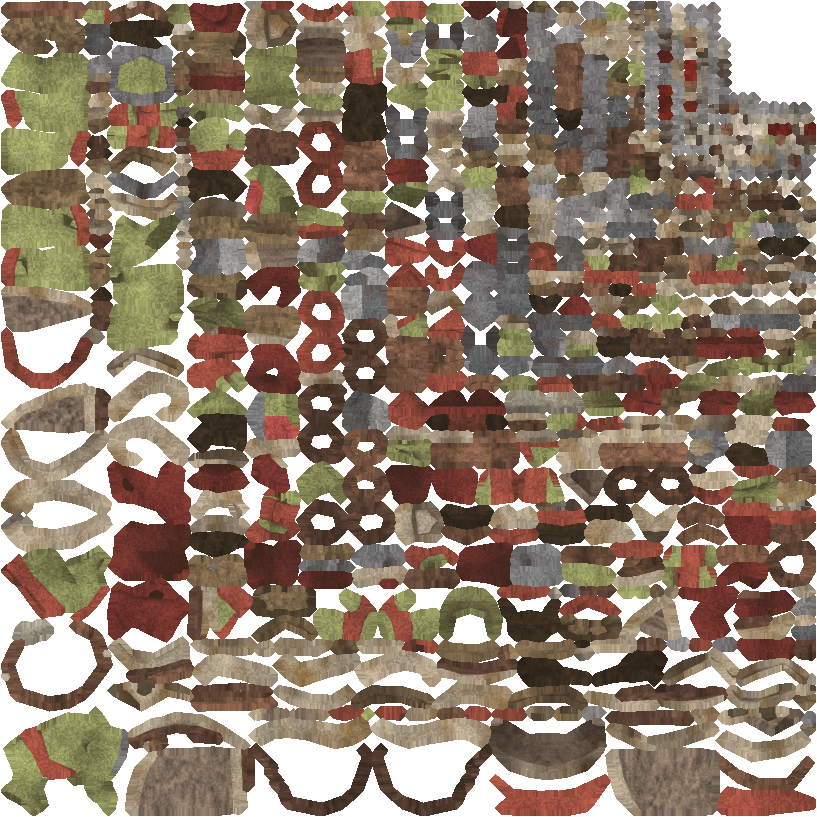
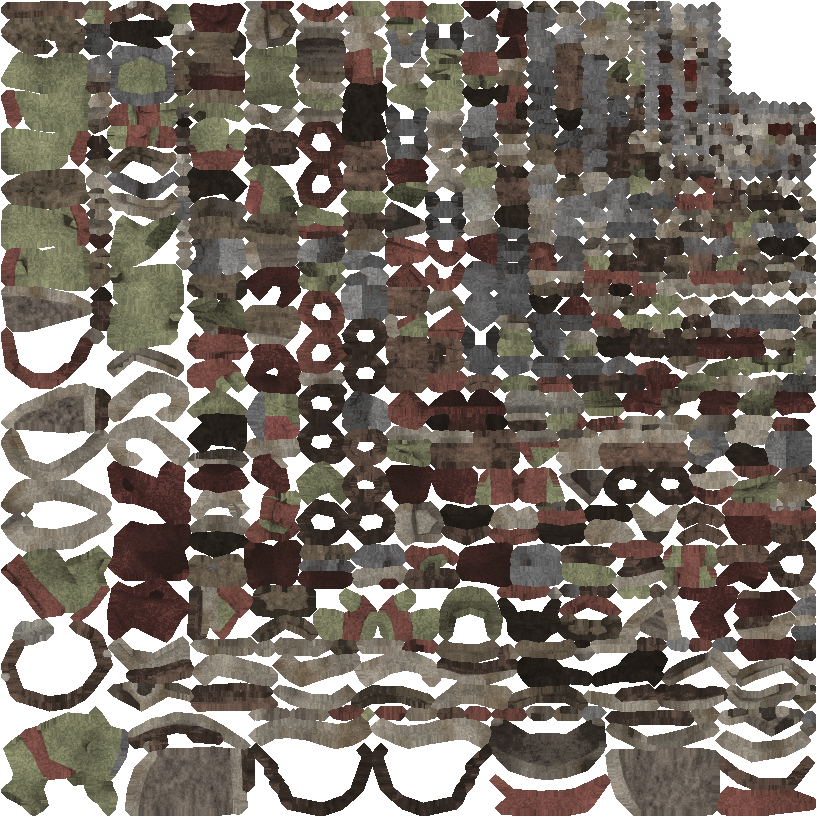
Events: lines plainer (about half of the clipped 'Verdict. Quip.' lines made one sentence; the dice faces no longer one template; no stock idioms), the shell game's cups are upside-down mugs (the turned-over broth bowls read as buns; prompt 'Pick this cup'), the great bell recoloured to dull bronze 

diff --git a/Assets/Game/Levels/Scripts/Editor/EventRoomsSetup.cs b/Assets/Game/Levels/Scripts/Editor/EventRoomsSetup.cs
@@ -349,7 +349,7 @@ public static class EventRoomsSetup
             ev.toll = Load<AudioClip>("Assets/Game/Audio/Clips/Events/Bell toll.wav");
         });
 
-    // The wager: a small candlelit 7 x 5 room, a table in the middle with the dealer sitting behind it, three bowls and a
+    // The wager: a small candlelit 7 x 5 room, a table in the middle with the dealer sitting behind it, three cups and a
     // coin on it.
     static GameObject Wager(GameObject sharp) => Room("Card table", "wager",
         "A skeleton runs a shell game. Bet gold, find the coin. He cheats once you win twice; call him out with a blow.",
@@ -369,7 +369,7 @@ public static class EventRoomsSetup
             var cups = new Transform[3];
             for (int i = 0; i < 3; i++)
             {
-                var bowl = Put(root, $"{Shared}/Tavern/Broth bowl.prefab", Vector3.zero, 0f, "Bowl " + (i + 1));
+                var bowl = Put(root, $"{Shared}/Tavern/Mug.prefab", Vector3.zero, 0f, "Bowl " + (i + 1));   // upside-down mugs (a bowl turned over read as a bun)
                 if (bowl == null) continue;
                 bowl.transform.localRotation = Quaternion.Euler(180f, 0f, 0f);
                 var bb = Bounds(bowl);

diff --git a/Assets/Game/Levels/Scripts/Events/SleepingGiantEvent.cs b/Assets/Game/Levels/Scripts/Events/SleepingGiantEvent.cs
@@ -22,11 +22,11 @@ public class SleepingGiantEvent : MonoBehaviour
     [Tooltip("What it leaves when it dies, besides its own drops: gear rolled at this rarity and the biggest spoils.")]
     public ItemRarity dropRarity = ItemRarity.Unique;
     [Header("Lines")]
-    public DungeonMaster.Line enterLine = new() { text = "Shh. It's sleeping. Crouch." };
+    public DungeonMaster.Line enterLine = new() { text = "It's asleep. Crouch." };
     [Tooltip("Said when a step woke it.")] public DungeonMaster.Line wokeLine = new() { text = "Should have crouched." };
-    [Tooltip("Said when a blow woke it.")] public DungeonMaster.Line struckLine = new() { text = "Bold. It's awake now." };
+    [Tooltip("Said when a blow woke it.")] public DungeonMaster.Line struckLine = new() { text = "You hit it. It's awake now." };
     public DungeonMaster.Line quietLine = new() { text = "Not a sound. I'm impressed." };
-    public DungeonMaster.Line killedLine = new() { text = "The bigger they are." };
+    public DungeonMaster.Line killedLine = new() { text = "That was a lot of giant." };
 
     ScriptedEventRoom room;
     Character giant;

diff --git a/Assets/Game/Levels/Scripts/Events/DuelEvent.cs b/Assets/Game/Levels/Scripts/Events/DuelEvent.cs
@@ -30,11 +30,11 @@ public class DuelEvent : MonoBehaviour
     [Range(1, 4)] public int maxTier = 2;
     public ItemRarity rarity = ItemRarity.Unique;
     [Header("Lines")]
-    public DungeonMaster.Line challengeLine = new() { text = "A duel. One on one. Face him." };
+    public DungeonMaster.Line challengeLine = new() { text = "He wants a duel. Face him." };
     public DungeonMaster.Line earlyLine = new() { text = "He hadn't even finished his salute." };
     public DungeonMaster.Line friendsLine = new() { text = "His friends saw that too." };
-    public DungeonMaster.Line fairLine = new() { text = "Fair and square. He'd want you to have this." };
-    public DungeonMaster.Line foulWinLine = new() { text = "You won. That's not how the songs will tell it." };
+    public DungeonMaster.Line fairLine = new() { text = "He lost fair. It's yours." };
+    public DungeonMaster.Line foulWinLine = new() { text = "You won. Not the way he'd have liked." };
 
     enum Phase { Waiting, Saluting, Duel, Broken, Over }
     Phase phase;

diff --git a/Tools/bell_rope.py b/Tools/bell_rope.py
@@ -1,5 +1,5 @@
 """The Great bell's pull rope, in metres, Unity axes (y up), the pivot at its top (y 0) and LENGTH down: a three-strand
-hemp rope (a twisted 10-sided tube whose radius follows three spiral ridges), a woollen sally to grip (red and cream
+hemp rope (a twisted 10-sided tube whose radius follows three spiral ridges), a woollen sally to grip (russet and hemp
 bands round a fatter wrap) part way up from its end, and a whipped tail with a knot at the bottom.
 Materials: Hemp, Wool red, Wool cream.
 blender -b -P bell_rope.py -- out.fbx [length]"""
@@ -17,7 +17,7 @@ def U(x, y, z):   # Unity -> Blender, as Tools/dm_die.py measured
 def mat(name, rgb):
     m = bpy.data.materials.new(name); m.diffuse_color = (*rgb, 1); return m
 
-HEMP, RED, CREAM = mat('Hemp', (.52, .42, .28)), mat('Wool red', (.46, .13, .10)), mat('Wool cream', (.74, .67, .54))
+HEMP, RED, CREAM = mat('Hemp', (.52, .42, .28)), mat('Wool red', (.33, .22, .15)), mat('Wool cream', (.47, .38, .26))
 mats = [HEMP, RED, CREAM]
 
 SIDES, R = 10, .018

diff --git a/Assets/Game/Levels/Scripts/Events/DungeonMasterMeddling.cs b/Assets/Game/Levels/Scripts/Events/DungeonMasterMeddling.cs
@@ -22,16 +22,16 @@ public class DungeonMasterMeddling : MonoBehaviour
     public static DungeonMaster.Line[] tooEasyLines =
     {
         new() { text = "Too easy. Let me fix that." },
-        new() { text = "You're making this look simple. Here." },
-        new() { text = "Hold on. That wasn't fair on them." },
+        new() { text = "You're making this look simple." },
+        new() { text = "That wasn't fair on them." },
     };
     public static DungeonMaster.Line[] afterAddLines =
     {
         new() { text = "Better." },
-        new() { text = "There. Now it's a fight." },
+        new() { text = "Now it's a fight." },
     };
     public static DungeonMaster.Line stealLine = new() { text = "Actually, I'll take that." };
-    public static DungeonMaster.Line coinLine = new() { text = "Here. For the walk." };
+    public static DungeonMaster.Line coinLine = new() { text = "A coin for the walk." };
 
     DungeonGenerator dungeon;
     DungeonRoomFeatures features;

diff --git a/Assets/Game/Levels/Scripts/Events/WagerEvent.cs b/Assets/Game/Levels/Scripts/Events/WagerEvent.cs
@@ -43,8 +43,8 @@ public class WagerEvent : MonoBehaviour
     public DungeonMaster.Line cheatHint = new() { text = "He doesn't like losing." };
     public DungeonMaster.Line cheatReveal = new() { text = "None of them? Funny, that." };
     public DungeonMaster.Line calledLine = new() { text = "You called it. Now deal with his friends." };
-    public DungeonMaster.Line soreLine = new() { text = "Sore loser. He played fair." };
-    public DungeonMaster.Line potLine = new() { text = "His pot. You earned it." };
+    public DungeonMaster.Line soreLine = new() { text = "He played fair, you know." };
+    public DungeonMaster.Line potLine = new() { text = "His pot is yours." };
     public DungeonMaster.Line poorLine = new() { text = "You can't cover the bet." };
     public DungeonMaster.Line doneLine = new() { text = "He's done for tonight." };
 

diff --git a/Assets/Game/Levels/Scripts/Events/DiceEvent.cs b/Assets/Game/Levels/Scripts/Events/DiceEvent.cs
@@ -24,11 +24,11 @@ public class DiceEvent : MonoBehaviour
     public DungeonMaster.Line rollLine = new() { text = "Let's see what the dice say." };
     public DungeonMaster.Line[] faceLines =
     {
-        new() { text = "One. Oh dear." },
-        new() { text = "Two. I have just the thing." },
-        new() { text = "Three. Nothing. How dull." },
-        new() { text = "Four. Have a rest." },
-        new() { text = "Five. Not bad." },
+        new() { text = "A one. Oh dear." },
+        new() { text = "A two gets you a friend of mine." },
+        new() { text = "Three does nothing at all." },
+        new() { text = "Four puts you back on your feet." },
+        new() { text = "Five, not bad." },
         new() { text = "Six! Lucky you." },
     };
 

diff --git a/Assets/Game/Levels/Scripts/Events/BellEvent.cs b/Assets/Game/Levels/Scripts/Events/BellEvent.cs
@@ -22,11 +22,11 @@ public class BellEvent : MonoBehaviour
     {
         new() { text = "You rang?" },
         new() { text = "Again? Fine." },
-        new() { text = "Greedy. I like it." },
+        new() { text = "You want more, then." },
         new() { text = "This is the last one. I mean it." },
     };
     public DungeonMaster.Line clearedLine = new() { text = "The chest looks better already." };
-    public DungeonMaster.Line cashOutLine = new() { text = "Taking the money. Sensible." };
+    public DungeonMaster.Line cashOutLine = new() { text = "Stopping now is the sensible thing." };
     public DungeonMaster.Line doneLine = new() { text = "That's all the bell has." };
 
     ScriptedEventRoom room;

diff --git a/Assets/Game/Levels/Scripts/Events/WagerCup.cs b/Assets/Game/Levels/Scripts/Events/WagerCup.cs
@@ -14,7 +14,7 @@ public class WagerCup : MonoBehaviour, IInteractable
     public Vector3 RestLocal(Transform self) { if (!hasRest) { rest = self.localPosition; hasRest = true; } return rest; }
     public void SetRest(Vector3 local) { rest = local; hasRest = true; }
 
-    public string Prompt => wager == null ? "" : wager.Picking ? "Pick this bowl" : wager.CanCall ? "Call him a cheat" : "";
+    public string Prompt => wager == null ? "" : wager.Picking ? "Pick this cup" : wager.CanCall ? "Call him a cheat" : "";
     public bool CanInteract(Character who) => who is Player && wager != null && (wager.Picking || wager.CanCall);
     public void Interact(Character who)
     {
